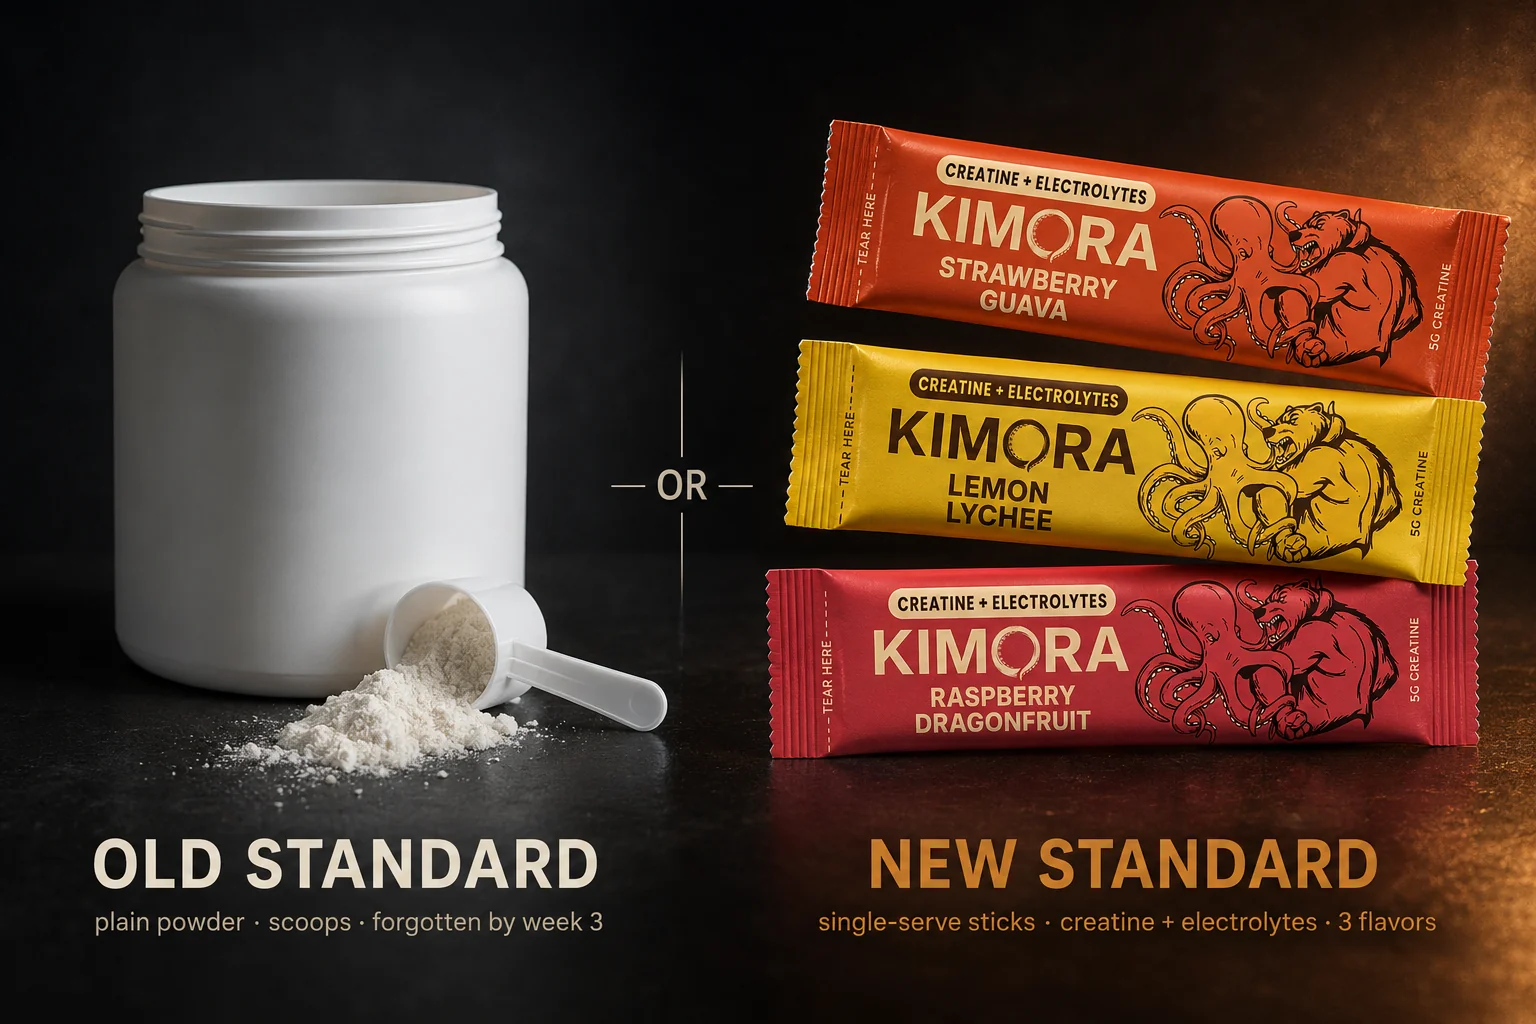
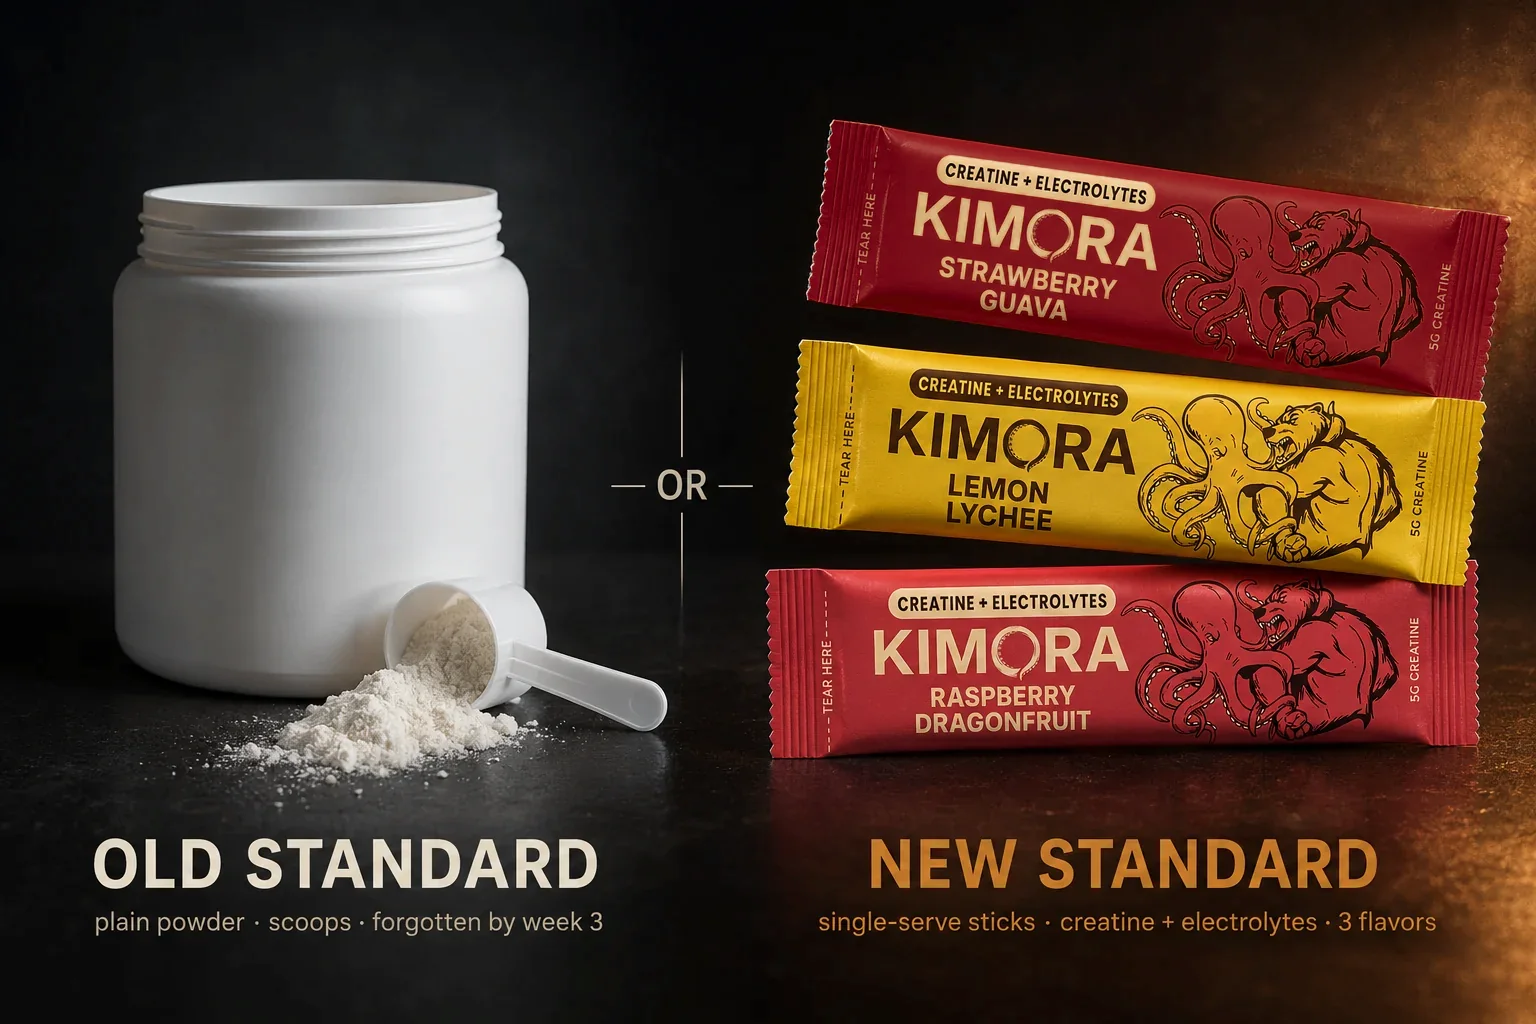
replace SG old colors

Changed region(s): [[0.5312, 0.0938, 1.0, 0.4062]]

diff --git a/client/src/pages/Product.tsx b/client/src/pages/Product.tsx
@@ -26,9 +26,9 @@ const productData: Record<string, any> = {
   "strawberry-guava": {
     name: "Strawberry Guava",
     desc: "Tart, tropical, and refreshingly smooth. A perfect balance of island sweetness and punchy tartness.",
-    // Darker terracotta — orange-400 was too bright/light on cream (Alex 7/6)
-    color: "text-orange-700",
-    gradient: "from-orange-500/20",
+    // Deep crimson to match the #A32B35 colorway (was terracotta orange-700 pre-9/9)
+    color: "text-red-800",
+    gradient: "from-red-800/20",
     pouch: "/assets/products/strawberry-guava/pouch_sticks_v1.webp",
     stick: "/assets/products/strawberry-guava/stick_render.png",
   },

diff --git a/client/src/pages/Shop.tsx b/client/src/pages/Shop.tsx
@@ -10,7 +10,7 @@ import { FLAVORS, isFlavorAvailable } from "@/lib/product";
 
 // Card gradients are Shop-only styling; everything factual comes from the catalog.
 const ACCENTS: Record<string, { accent: string; bgAccent: string }> = {
-  "strawberry-guava": { accent: "from-orange-600/20 to-transparent", bgAccent: "from-orange-500/20" },
+  "strawberry-guava": { accent: "from-red-800/25 to-transparent", bgAccent: "from-red-800/20" },
   "lemon-lychee": { accent: "from-yellow-500/20 to-transparent", bgAccent: "from-yellow-500/20" },
   "raspberry-dragonfruit": { accent: "from-red-600/25 to-transparent", bgAccent: "from-red-500/20" },
 };
